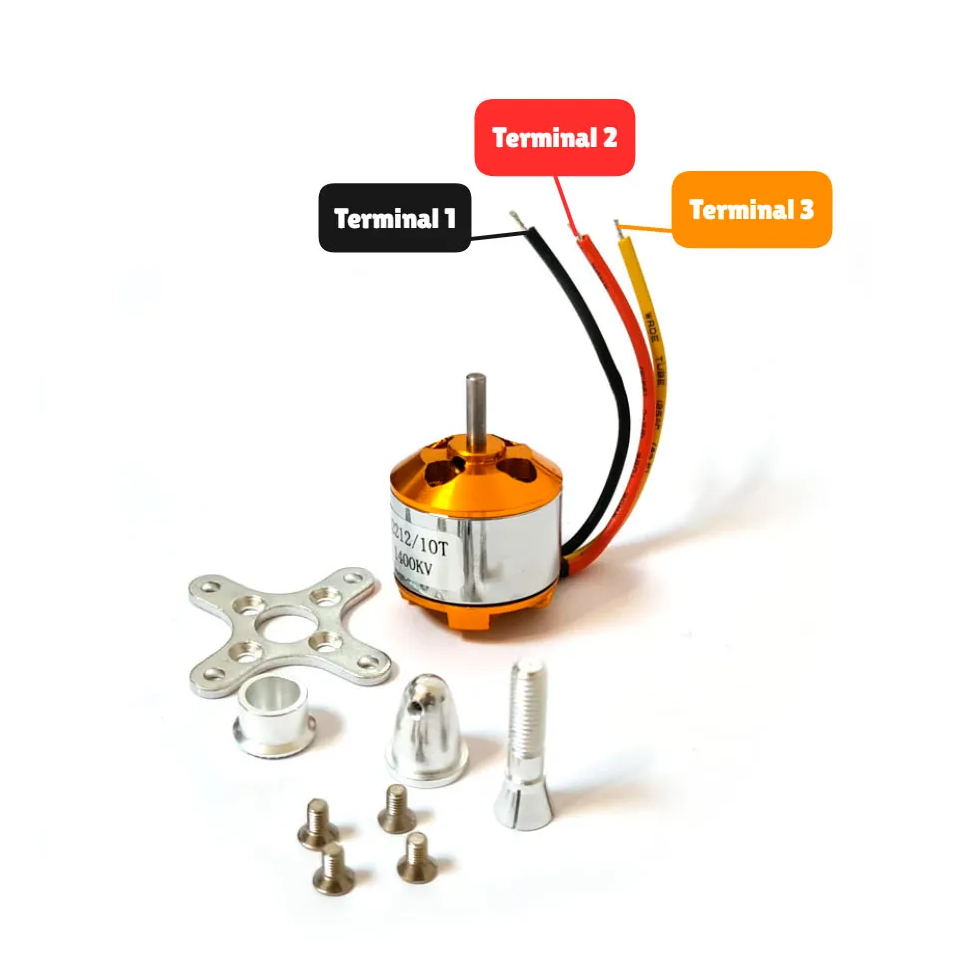
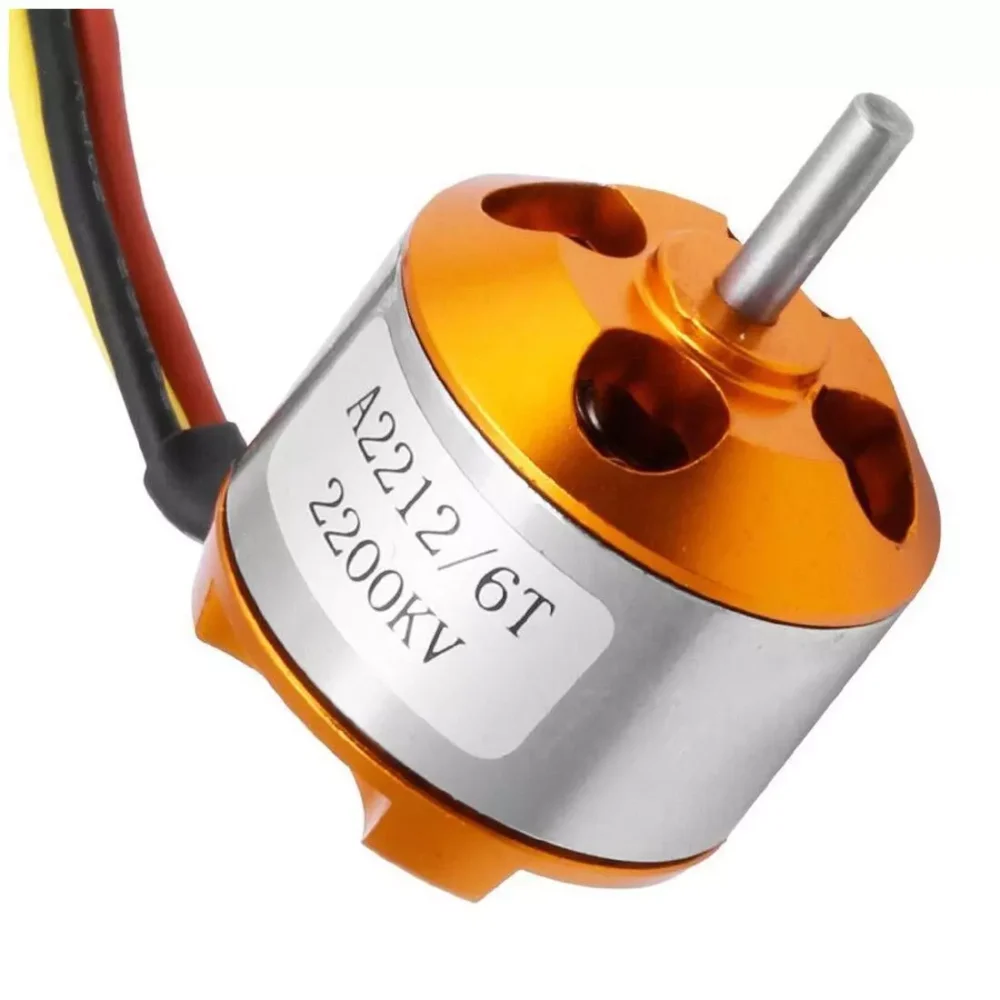
Actualización_readme_componentes_01

diff --git a/README.md b/README.md
@@ -28,7 +28,7 @@ A continuación se documentan los componentes electrónicos y mecánicos utiliza
 
 <table>
   <tr>
-    <td align="center" width="500"><img src="assets/components/AR1660-Motor-Brushless-A2212-KV1400-PINOUT.png" width="400"/></td>
+    <td align="center" width="250"><img src="assets/components/AR1660-Motor-Brushless-A2212-KV1400-PINOUT.png" width="250"/></td>
     <td>
       <b>Motor Brushless</b><br>
   <ul>
@@ -48,17 +48,36 @@ A continuación se documentan los componentes electrónicos y mecánicos utiliza
     </td>
   </tr>
   <tr>
-    <td align="center" width="200"><img src="assets/components/fc.png" width="180"/></td>
+    <td align="center" width="250"><img src="assets/components/AR1659-ESC-30A-Driver-Motor-Brushless.png" width="250"/></td>
     <td>
-      <b>Flight Controller (STM32F411 - BlackPill)</b><br>
-      Placa encargada del procesamiento de sensores y ejecución del firmware Betaflight.
+      <b>ESC</b><br>
+<ul>
+    <li><b>Modelo:</b> ESC 30A Driver Motor Brushless</li>
+    <li><b>Voltaje de entrada:</b> 2–4 celdas de litio o 5–12 celdas NiCd/NiMH</li>
+    <li><b>Corriente continua:</b> 30 A</li>
+    <li><b>Corriente máxima (ráfaga):</b> 40 A</li>
+    <li><b>Salida BEC:</b> 5 V / 2 A</li>
+    <li><b>Frecuencia de trabajo:</b> 50–60 Hz (señal PWM)</li>
+    <li><b>RPM máximas soportadas:</b> 210,000 RPM (2 polos), 70,000 RPM (6 polos), 35,000 RPM (12 polos)</li>
+    <li><b>Señal de control:</b> PWM estándar (1000–2000 µs)</li>
+    <li><b>Tamaño:</b> 57 mm × 25 mm × 8 mm</li>
+    <li><b>Peso neto:</b> 27 g</li>
+  </ul>
     </td>
   </tr>
   <tr>
-    <td align="center" width="200"><img src="assets/components/esc.png" width="180"/></td>
+    <td align="center" width="250"><img src="assets/components/YT_5067.png" width="250"/></td>
     <td>
-      <b>ESC (Electronic Speed Controller)</b><br>
-      Controla la velocidad de los motores a partir de las señales del FC.
+      <b>Bateria</b><br>
+  <ul>
+    <li><b>Voltaje:</b> 11.1 V</li>
+    <li><b>Celdas:</b> 3S</li>
+    <li><b>Capacidad de descarga:</b> 30 a 60C</li>
+    <li><b>Corriente:</b> 1,400 mAh</li>
+    <li><b>Descarga continua:</b> 25C</li>
+    <li><b>Tamaño:</b> 85.7 mm x 29.8 mm x 20.2 mm</li>
+    <li><b>Peso neto:</b> 125 g</li>
+  </ul>
     </td>
   </tr>
   <tr>